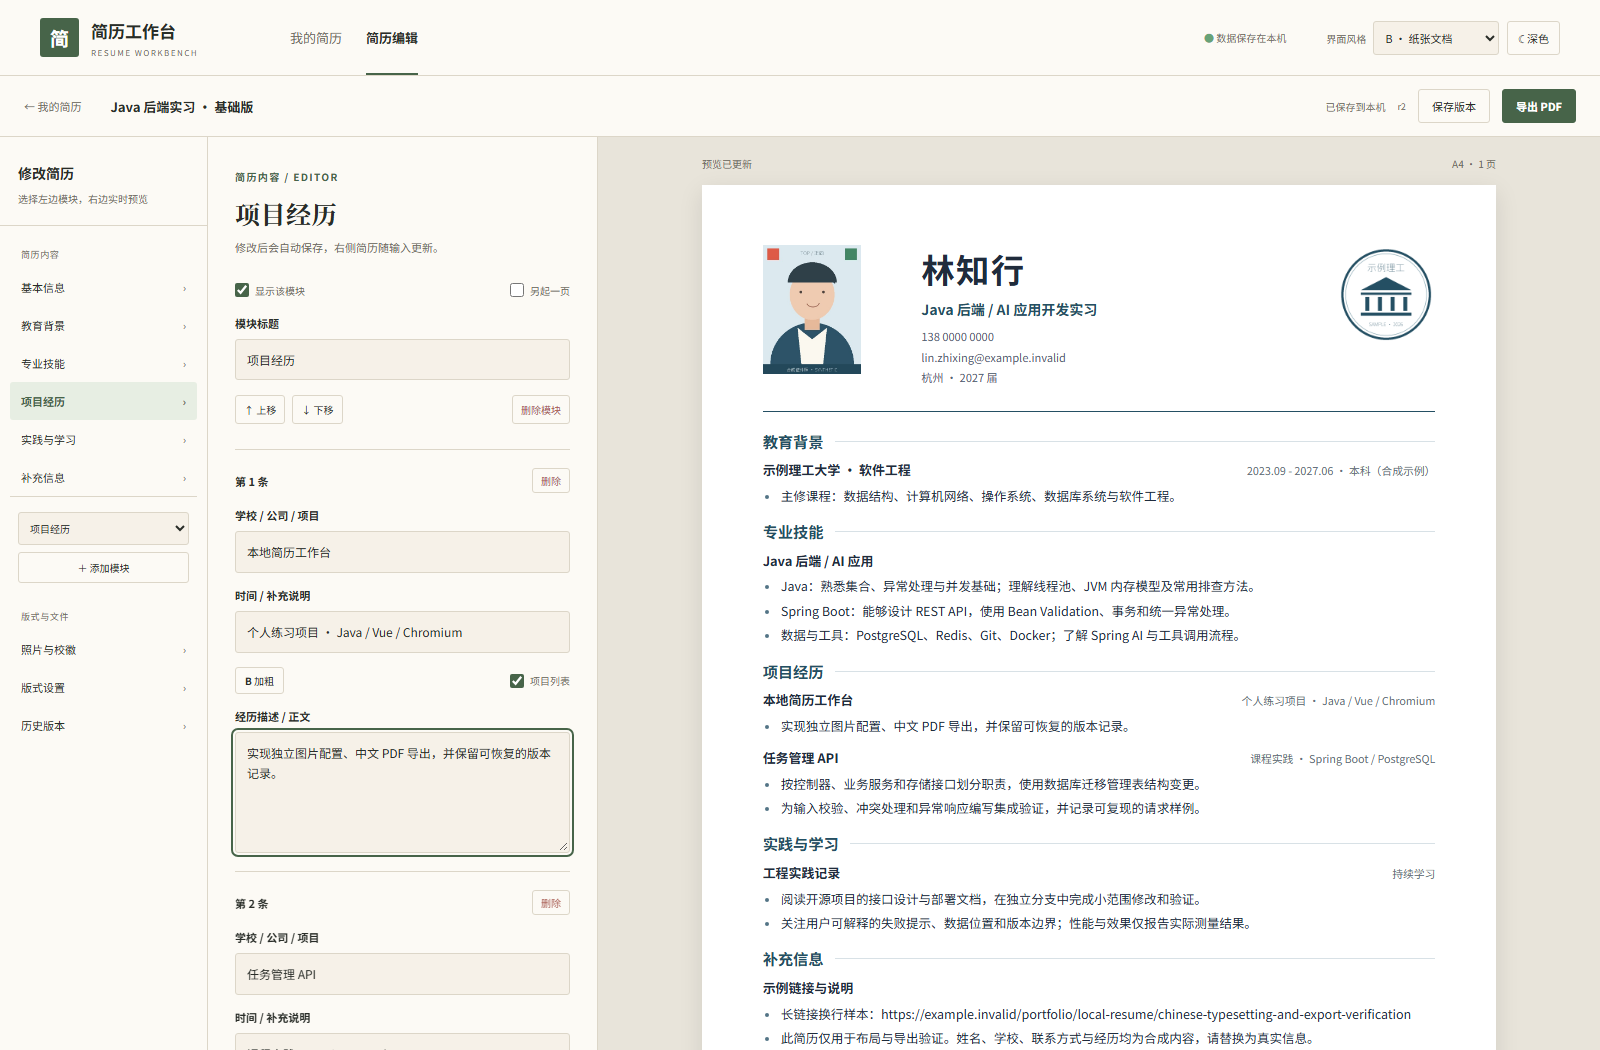
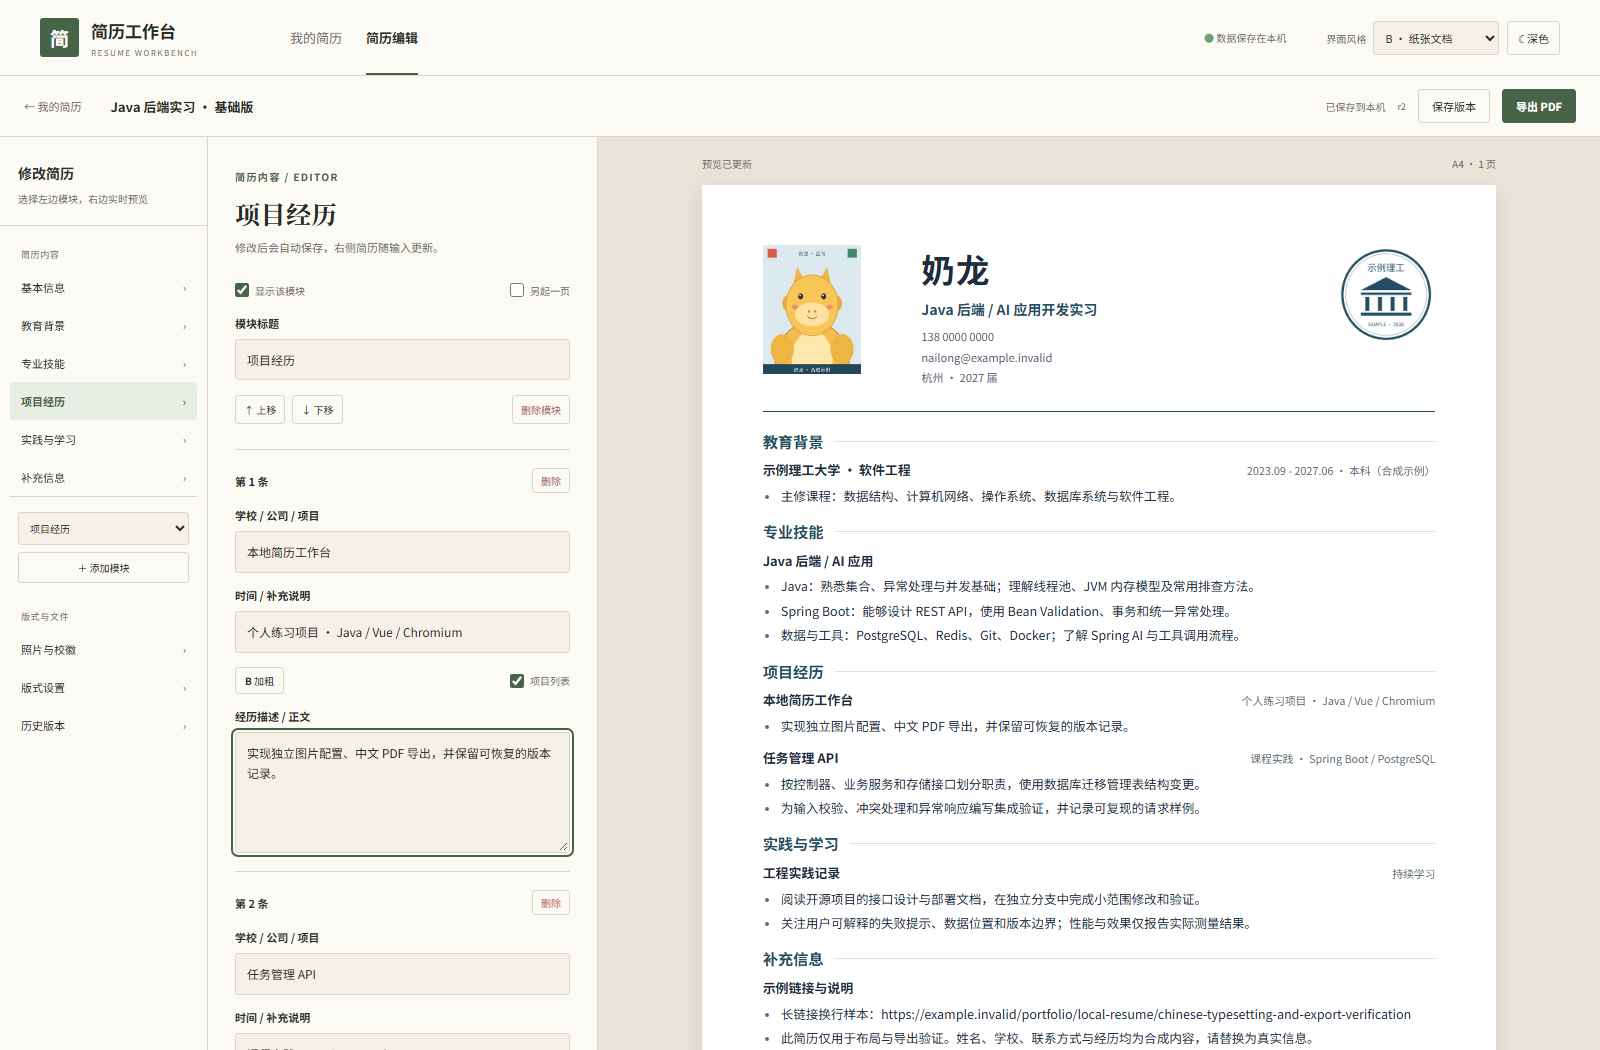
fix(samples): use NAILONG cartoon portrait and name

diff --git a/frontend/tests/stage-b.spec.ts b/frontend/tests/stage-b.spec.ts
@@ -14,7 +14,7 @@ test.afterEach(async({request})=>{for(const id of created){const r=await request
 test('editable content, persistence, module controls, image version restore, copy and delete',async({page,request})=>{
  const resume=await create(request);await open(page,resume.id);
  await page.getByLabel('简历名称',{exact:true}).fill('Java 岗 · 验证');
- await page.getByLabel('姓名',{exact:true}).fill('陈明远');
+ await page.getByLabel('姓名',{exact:true}).fill('奶龙·验证');
  await page.getByTestId('nav-project').click();const project=page.getByTestId('section-project');
  await project.getByLabel('条目正文').first().fill('**Spring Boot** 实现事务与版本恢复。\n图片独立管理，中文原字符可提取。');await saved(page);
  await expect(page.frameLocator('iframe').locator('#pages strong').filter({hasText:'Spring Boot'})).toBeVisible();
@@ -23,7 +23,7 @@ test('editable content, persistence, module controls, image version restore, cop
  await project.getByLabel('显示模块').uncheck();await saved(page);
  await expect(page.frameLocator('iframe').locator('#pages h2').filter({hasText:'项目经历'})).toHaveCount(0);
  await project.getByLabel('显示模块').check();await saved(page);
- await page.reload();await expect(page.getByLabel('姓名',{exact:true})).toHaveValue('陈明远');await saved(page);
+ await page.reload();await expect(page.getByLabel('姓名',{exact:true})).toHaveValue('奶龙·验证');await saved(page);
  await page.getByRole('button',{name:'历史版本',exact:true}).click();await page.getByLabel('快照名称').fill('照片基线');await page.getByRole('button',{name:'保存版本快照'}).click();
  await expect(page.getByRole('listitem').filter({hasText:'照片基线'})).toBeVisible();
  await page.getByRole('button',{name:'照片与校徽',exact:true}).click();
@@ -47,7 +47,7 @@ test('editable content, persistence, module controls, image version restore, cop
  await page.getByLabel('简历名称',{exact:true}).fill('AI 岗 · 副本');await saved(page);
  expect((await (await request.get('/api/resumes/'+resume.id)).json()).title).toBe('Java 岗 · 验证');
  await page.locator('.rw-editor-top button').first().click();page.once('dialog',dialog=>dialog.accept());await page.getByTestId('resume-'+copyId).getByRole('button',{name:'删除',exact:true}).click();
- await expect(page.getByTestId('resume-'+resume.id)).toBeVisible();
+ await expect(page.getByTestId('resume-'+copyId)).toHaveCount(0);await expect(page.getByTestId('resume-'+resume.id)).toBeVisible();
  expect((await request.get('/api/resumes/'+copyId)).status()).toBe(404);
  await fs.mkdir(path.join(root,'output'),{recursive:true});await page.setViewportSize({width:1640,height:1150});await page.screenshot({path:path.join(root,'output/workbench-stage-b.png'),fullPage:true});
 });
@@ -57,7 +57,7 @@ test('failed save stays dirty and edits during an in-flight save are serialized'
  const url='**/api/resumes/'+resume.id;
  await page.route(url,async route=>{if(route.request().method()==='PUT')await route.fulfill({status:503,contentType:'application/json',body:JSON.stringify({code:'DATABASE_UNAVAILABLE',message:'测试：数据库不可用，本次修改尚未保存。'})});else await route.continue();});
  await page.getByLabel('姓名',{exact:true}).fill('失败时保留内容');await expect(page.getByTestId('save-status')).toHaveText('保存失败');
- expect((await (await request.get('/api/resumes/'+resume.id)).json()).document.content.name).toBe('林知行');
+ expect((await (await request.get('/api/resumes/'+resume.id)).json()).document.content.name).toBe('奶龙');
  await expect(page.getByLabel('姓名',{exact:true})).toHaveValue('失败时保留内容');await page.unroute(url);
  await page.getByRole('button',{name:'重试保存'}).click();await saved(page);
  let active=0,maxActive=0;await page.route(url,async route=>{if(route.request().method()!=='PUT'){await route.continue();return;}active++;maxActive=Math.max(maxActive,active);await new Promise(r=>setTimeout(r,1200));await route.continue();active--;});

diff --git a/scripts/generate-fixtures.py b/scripts/generate-fixtures.py
@@ -1,4 +1,4 @@
-"""Original synthetic fixtures; requires Pillow. Never uses a real person's image."""
+"""Original synthetic fixtures; requires Pillow. Never uses a person's image."""
 from pathlib import Path
 from PIL import Image, ImageDraw, ImageFont
 import shutil
@@ -23,20 +23,34 @@ logo.save(OUT / "university-logo.png")
 
 portrait = Image.new("RGB", (360, 480), "#dce9ee")
 d = ImageDraw.Draw(portrait)
-d.rectangle((16, 16, 58, 58), fill="#dd5b47")
-d.rectangle((302, 16, 344, 58), fill="#438666")
-d.text((180, 32), "TOP / 正向", font=font(18), fill="#47616d", anchor="mm")
-d.ellipse((27, 288, 333, 590), fill="#2d5369")
-d.polygon([(127, 307), (180, 349), (234, 307), (220, 440), (141, 440)], fill="#faf8ef")
-d.rectangle((153, 245, 207, 314), fill="#e7b99b")
-d.ellipse((98, 93, 262, 277), fill="#efcbb2")
-d.pieslice((91, 67, 270, 213), 180, 360, fill="#304048")
-d.polygon([(95, 139), (111, 92), (189, 78), (252, 107), (264, 145), (236, 126), (219, 103), (150, 124)], fill="#304048")
-d.ellipse((134, 171, 143, 180), fill="#4f4340")
-d.ellipse((217, 171, 226, 180), fill="#4f4340")
-d.arc((159, 197, 207, 231), 10, 165, fill="#9a6555", width=3)
+# Small red/green orientation stamps are also used by the EXIF test.
+d.rectangle((17, 17, 49, 49), fill="#dd5b47")
+d.rectangle((311, 17, 343, 49), fill="#438666")
+d.text((180, 34), "奶龙 · 正向", font=font(18), fill="#47616d", anchor="mm")
+
+# A new, source-controlled cartoon drawing: yellow dragon, round face, little
+# horns and cream belly. It contains no photo or image copied from the web.
+d.ellipse((43, 284, 317, 581), fill="#f3bf4f", outline="#ca8b31", width=4)
+d.ellipse((105, 319, 255, 517), fill="#ffe8ab")
+d.ellipse((28, 330, 112, 440), fill="#efb543")
+d.ellipse((248, 330, 332, 440), fill="#efb543")
+d.polygon([(112, 141), (125, 85), (153, 132)], fill="#f1b64a")
+d.polygon([(207, 132), (235, 85), (248, 141)], fill="#f1b64a")
+d.ellipse((71, 187, 118, 247), fill="#edaa3e")
+d.ellipse((242, 187, 289, 247), fill="#edaa3e")
+d.ellipse((83, 112, 277, 336), fill="#f7c657", outline="#d9a13d", width=3)
+d.ellipse((117, 214, 243, 301), fill="#ffe1a0")
+d.ellipse((129, 181, 146, 202), fill="#342f2d")
+d.ellipse((214, 181, 231, 202), fill="#342f2d")
+d.ellipse((133, 185, 138, 191), fill="#fffef7")
+d.ellipse((218, 185, 223, 191), fill="#fffef7")
+d.ellipse((105, 222, 127, 239), fill="#ed9276")
+d.ellipse((233, 222, 255, 239), fill="#ed9276")
+d.ellipse((165, 243, 172, 250), fill="#bd8a48")
+d.ellipse((188, 243, 195, 250), fill="#bd8a48")
+d.arc((162, 245, 198, 274), 12, 170, fill="#9c6647", width=3)
 d.rectangle((0, 440, 360, 480), fill="#23485a")
-d.text((180, 460), "合成证件照 · SYNTHETIC", font=font(16), fill="#ffffff", anchor="mm")
+d.text((180, 460), "奶龙 · 合成示例", font=font(18), fill="#ffffff", anchor="mm")
 portrait.save(OUT / "portrait-upright.jpg", quality=93)
 exif = Image.Exif(); exif[274] = 6
 portrait.transpose(Image.Transpose.ROTATE_90).save(OUT / "portrait-exif-6.jpg", quality=93, exif=exif)

diff --git a/src/test/java/dev/localresume/PreviewServiceTest.java b/src/test/java/dev/localresume/PreviewServiceTest.java
@@ -14,8 +14,8 @@ class PreviewServiceTest {
     @Test void rendersBothAssetsEscapesTextAndKeepsPreviousSnapshotStable() {
         var photo = new ResumeDraft.ImageSlot("00000000-0000-0000-0000-000000000001", true, 26, 34, "cover", 0, 1, 50, 50);
         var logo = new ResumeDraft.ImageSlot("00000000-0000-0000-0000-000000000002", true, 26, 26, "contain", 0, 1, 50, 50);
-        var first = previews.create(new ResumeDraft(1,"two","<林知行>","Java","","","",false,photo,logo));
-        assertThat(first.html()).contains("&lt;林知行&gt;", "/api/assets/" + photo.id() + "/image", "/api/assets/" + logo.id() + "/image", "data-break=\"true\"");
+        var first = previews.create(new ResumeDraft(1,"two","<奶龙>","Java","","","",false,photo,logo));
+        assertThat(first.html()).contains("&lt;奶龙&gt;", "/api/assets/" + photo.id() + "/image", "/api/assets/" + logo.id() + "/image", "data-break=\"true\"");
         previews.create(new ResumeDraft(1,"one","新名称","Java","","","",true,photo,logo));
         assertThat(previews.get(first.id()).html()).isEqualTo(first.html()).doesNotContain("新名称");
     }

diff --git a/scripts/verify-pdfs.py b/scripts/verify-pdfs.py
@@ -20,9 +20,9 @@ for name, count, font_name in cases:
     texts = [page.extract_text() for page in reader.pages]
     first = texts[0]
     # No NFKC normalization: literal ordinary Chinese must survive extraction.
-    for text in ['林知行', '教育背景', '专业技能', '项目经历', '本地简历工作台', '补充信息']:
+    for text in ['奶龙', '教育背景', '专业技能', '项目经历', '本地简历工作台', '补充信息']:
         assert text in first, f'{name}: literal text missing: {text!r}'
-    positions = [first.index(text) for text in ['林知行', '教育背景', '专业技能', '项目经历', '实践与学习', '补充信息']]
+    positions = [first.index(text) for text in ['奶龙', '教育背景', '专业技能', '项目经历', '实践与学习', '补充信息']]
     assert positions == sorted(positions), 'Unexpected reading order'
     if count == 2:
         for text in ['项目细节', '接口与错误处理', '测试与验证', '后续计划', '长中文段落样本']:

diff --git a/src/main/java/dev/localresume/ResumeDocument.java b/src/main/java/dev/localresume/ResumeDocument.java
@@ -50,8 +50,8 @@ public record ResumeDocument(@Min(2) @Max(2) int schemaVersion,
     public static ResumeDocument sample(String sample) {
         var photo = new ResumeDraft.ImageSlot(null,true,26,34,"cover",0,1,50,50);
         var logo = new ResumeDraft.ImageSlot(null,true,26,26,"contain",0,1,50,50);
-        var result = fromLegacy(new ResumeDraft(1,sample.equals("two") ? "two" : "one","林知行","Java 后端 / AI 应用开发实习",
-            "lin.zhixing@example.invalid","138 0000 0000","杭州 · 2027 届",false,photo,logo));
+        var result = fromLegacy(new ResumeDraft(1,sample.equals("two") ? "two" : "one","奶龙","Java 后端 / AI 应用开发实习",
+            "nailong@example.invalid","138 0000 0000","杭州 · 2027 届",false,photo,logo));
         if (!sample.equals("blank")) return result;
         return new ResumeDocument(2,new Content("姓名","求职方向","","","",List.of()),result.layout());
     }

diff --git a/docs/stage-a-verification.md b/docs/stage-a-verification.md
@@ -41,7 +41,7 @@ JDK 和 Chromium 配置限于脚本进程。首次浏览器准备时安装器使
 
 ## 中文 PDF 验证
 
-初次输出视觉正常，但提取“林知行”出现 U+2F8F，部分普通汉字变成康熙或 CJK 部首。变量字体还被 Chromium 输出成大量 Type 3 字体。修复方式是生成两个静态字重，并消除兼容别名/部首与标准汉字的重复 cmap 映射。处理脚本、字体散列和许可证均已保留。
+初次输出视觉正常，但姓名字段中的普通汉字被映射为 U+2F8F，部分普通汉字变成康熙或 CJK 部首。变量字体还被 Chromium 输出成大量 Type 3 字体。修复方式是生成两个静态字重，并消除兼容别名/部首与标准汉字的重复 cmap 映射。处理脚本、字体散列和许可证均已保留。
 
 最终检查直接比较中文原字符，**没有**通过 NFKC 归一化放宽验证。
 
@@ -52,7 +52,7 @@ JDK 和 Chromium 配置限于脚本进程。首次浏览器准备时安装器使
 
 - 两份文件页面均为 A4（约 594.96 × 841.92 pt），未出现额外空白页。
 - `pdffonts` 显示 LocalResumeSans-Bold / Regular 两个 CID TrueType 字体，均嵌入、子集化，并带 Unicode 映射。
-- `pypdf` 正确提取“林知行”“项目经历”“本地简历工作台”等原字符。标题阅读顺序正确，没有 U+2E80–U+2FFF 部首替换和 U+FFFD。
+- `pypdf` 正确提取姓名、项目标题等原字符。标题阅读顺序正确，没有 U+2E80–U+2FFF 部首替换和 U+FFFD。
 - Poppler 渲染最终三个页面并逐页视觉检查：照片正向、右上角校徽透明，无文字或图片重叠；正文、续页、页脚无截断。
 - 长链接、中英文技术词、粗体、列表、中文长段落均包含在样本中。没有做“100% ATS”兼容承诺。
 

diff --git a/docs/stage-b-verification.md b/docs/stage-b-verification.md
@@ -1,5 +1,9 @@
 # 阶段 B 验收记录
 
+**示例更新（2026-09-27）**：当前新建示例的姓名、邮箱和卡通证件照已统一为“奶龙”。此页下方的早期字节数与 PDF 散列保留为当时的历史记录；更新后的机器报告位于 `output/pdf-verification-stage-b.json`。
+
+更新后的图片由 `scripts/generate-fixtures.py` 直接绘制，并继续提供 JPEG、透明校徽和 EXIF=6 的测试样本。新证件照 JPEG 为 22,178 字节。复验结果：22 项后端测试、8 组端到端测试全部通过；经典单栏与并列页眉各导出一页、两页 PDF，均保留可提取的“奶龙”与正确阅读顺序，照片方向和布局逐页检查通过。当前展示截图是 `docs/workbench.png`、`docs/workbench-editor.png`、`docs/workbench-dark.png`。已保存的简历与历史版本保留用户原有内容。
+
 执行日期：2026-09-27。分支：`codex/stage-b`。基于阶段 A 的图片与中文字体验证，交付可编辑、可保存、可恢复的本地简历流程。
 
 ## 已实现

diff --git a/README.md b/README.md
@@ -13,6 +13,7 @@
 - 正文支持段落、项目列表和 `**加粗**`。输入 HTML 会作为文字显示，不接受任意 HTML/CSS。
 - 编辑页左侧选模块、中间填写内容、右侧实时预览。界面可选蓝白工具或纸张文档风格，并能独立切换深色模式；选择保存在本机浏览器。PDF 模板仍可独立选择经典单栏或并列页眉。
 - 两张图片可以独立替换、隐藏、移除、调整尺寸、旋转和裁剪。
+- 新建示例使用“奶龙”作为姓名与卡通证件照；保留一张独立的虚构学校 Logo。已有简历的内容不会被模板更新覆盖。
 - 本地黑体 / 宋体，字号 9–12 pt、行距 1.3–1.85、模块间距 2–8 mm、页边距 12–22 mm。
 - 700 ms 防抖自动保存，串行写入；数据库确认后才显示“已保存到本机”。失败可重试或另存副本，修订冲突不覆盖其他页面。
 - 手动版本快照和恢复；恢复前自动保留当前版本。导出时记录固定修订的版本快照。
